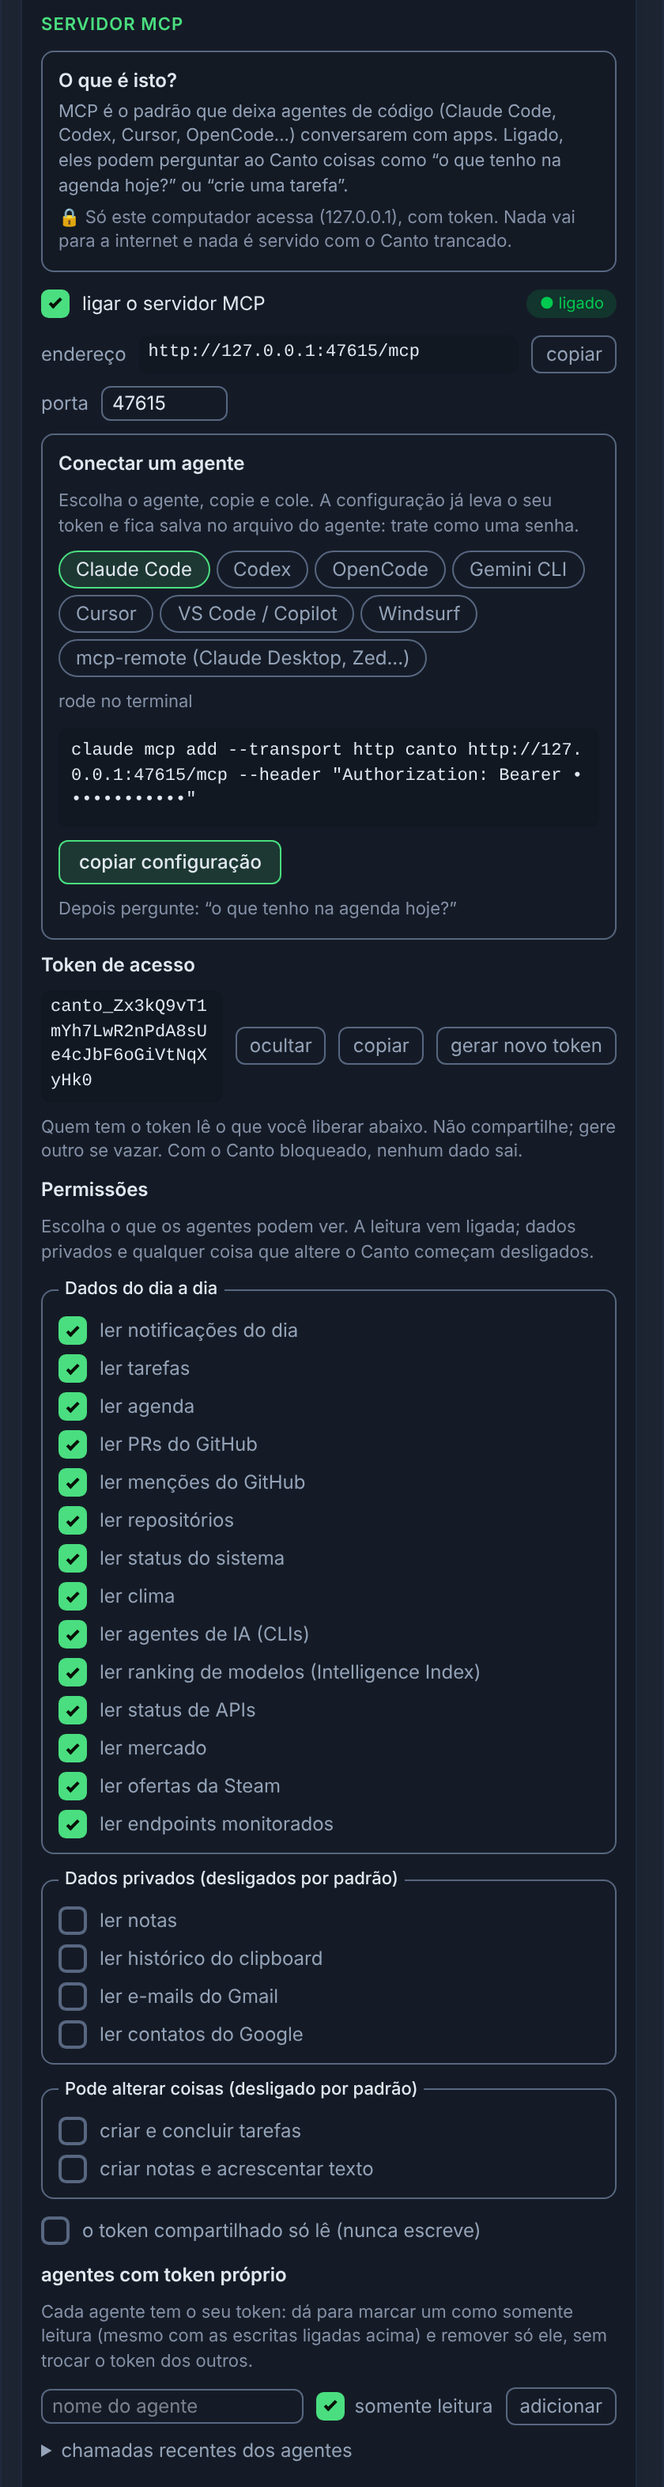
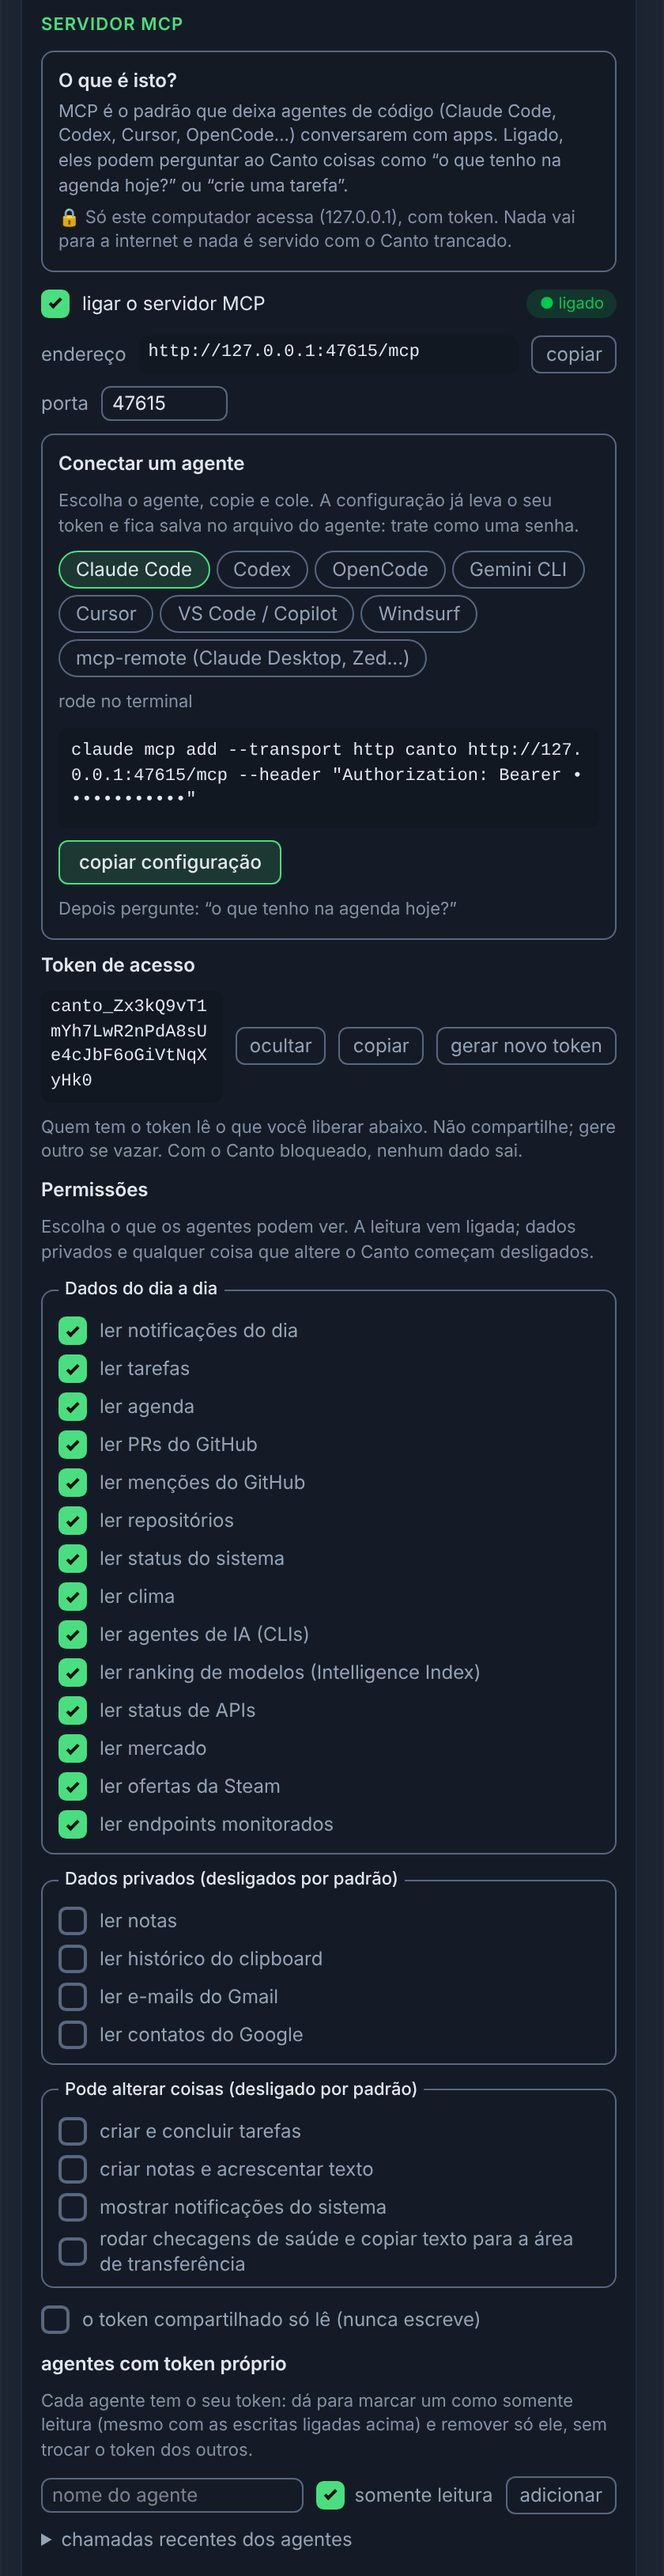
docs(mcp): atualizar prints de Ajustes > Servidor MCP com as permissões novas
Claude-Session: https://claude.ai/code/session_01Cn6JQKsN3nF8kb9S6dwy32

diff --git a/scripts/media/mcp.media.ts b/scripts/media/mcp.media.ts
@@ -4,7 +4,7 @@ import { openScene, settle } from "./stage";
 
 const perms = {
   notifications: true, tasks: true, notes: false, agenda: true, prs: true, system: true, weather: true, agents: true, models: true, status: true,
-  market: true, mentions: true, repos: true, steam: true, health: true, clipboard: false, gmail: false, contacts: false, tasks_write: false, notes_write: false,
+  market: true, mentions: true, repos: true, steam: true, health: true, clipboard: false, gmail: false, contacts: false, tasks_write: false, notes_write: false, notify_write: false, actions_write: false,
 };
 const on = { enabled: true, running: true, port: 47615, endpoint: "http://127.0.0.1:47615/mcp", perms, error: null };
 /** Made-up and assembled at run time, so no token-shaped literal sits in the source. */
